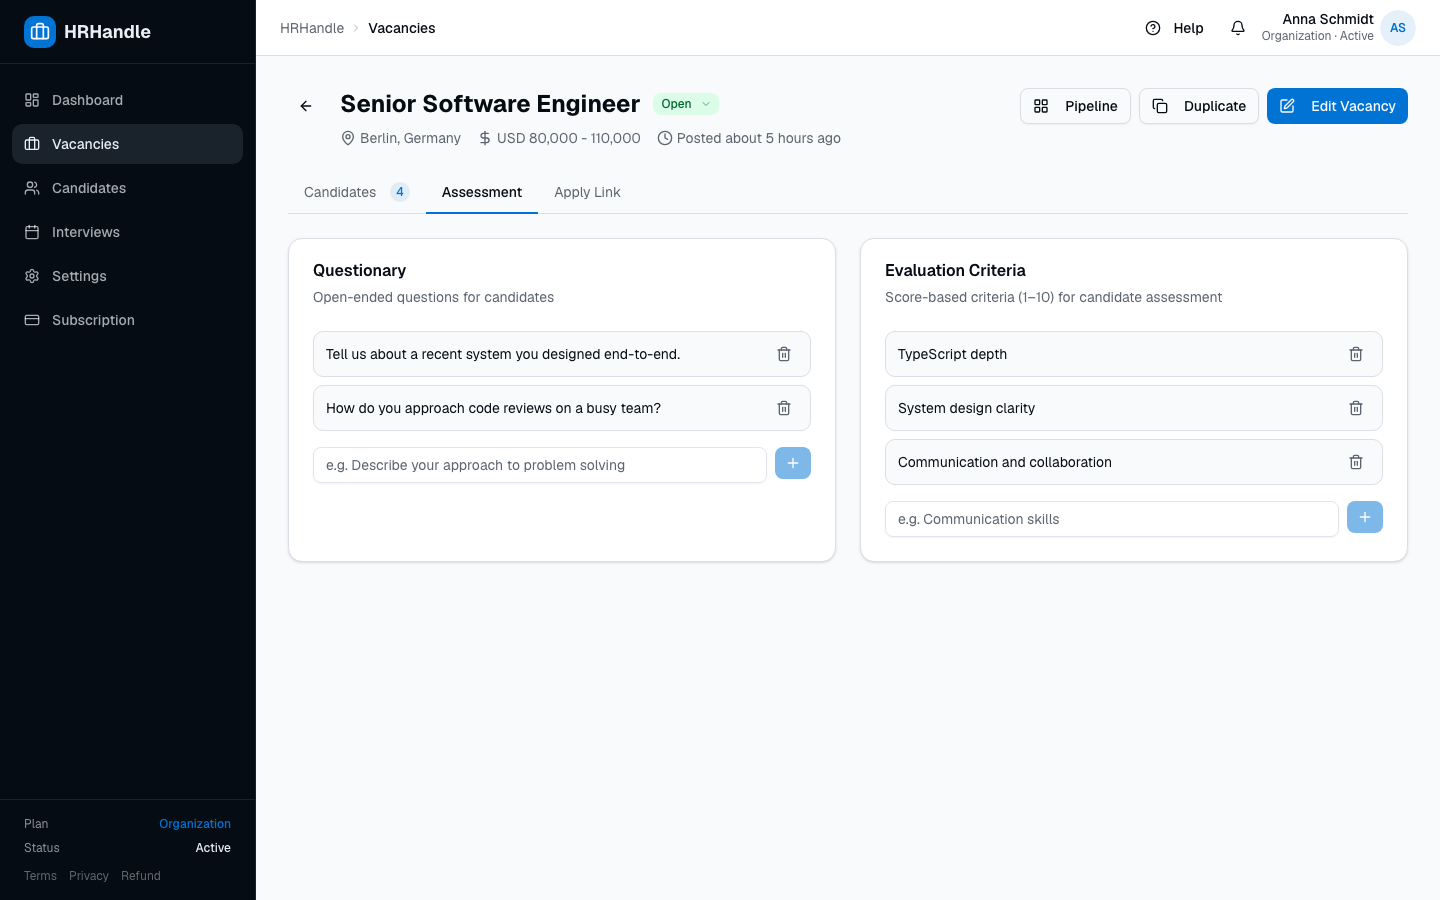
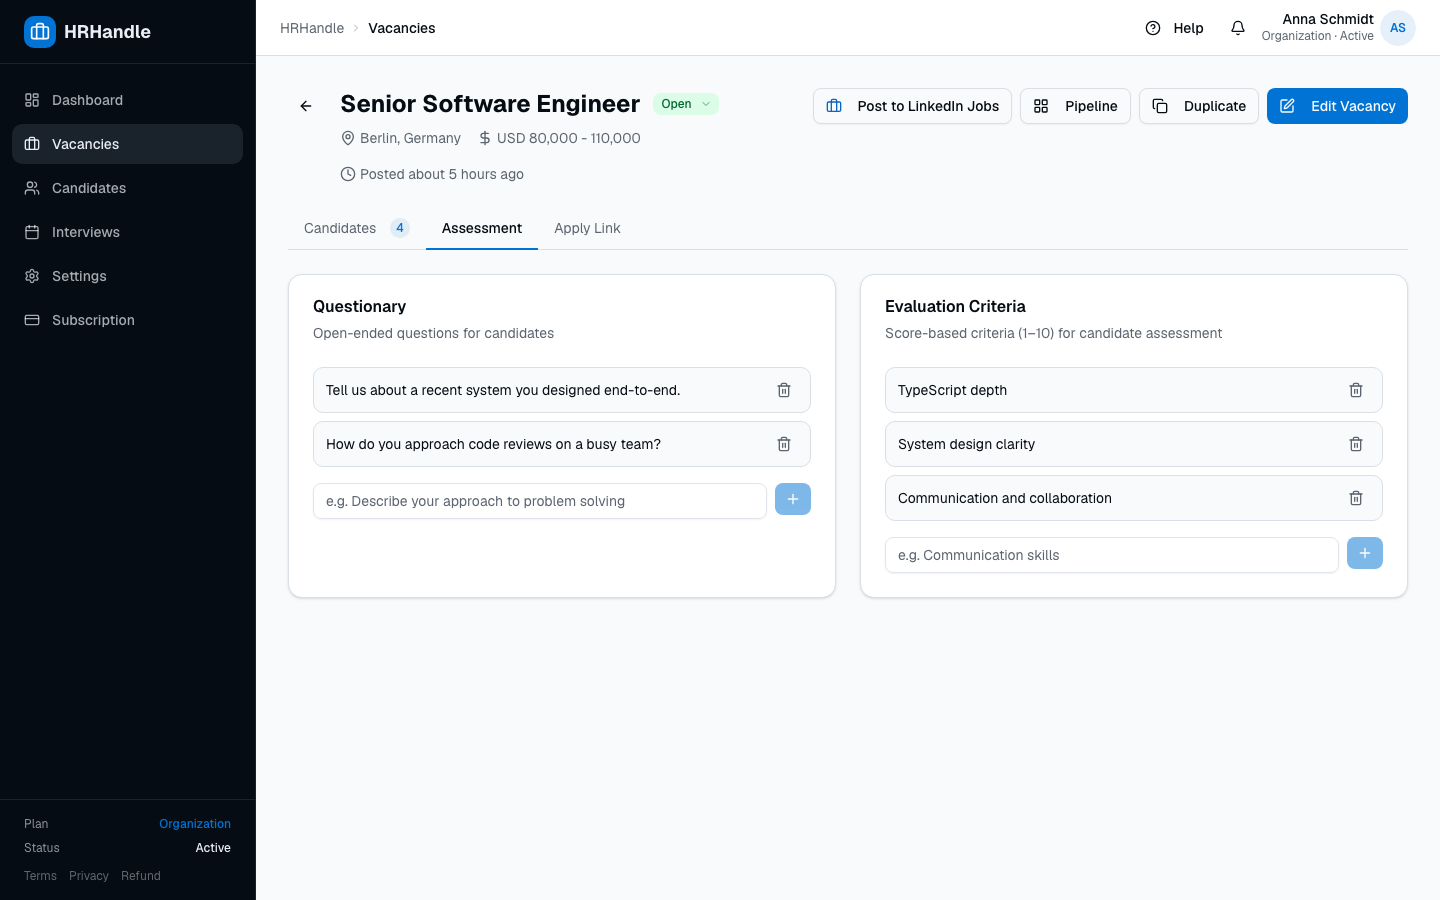
Add linkedin-integration guide with three screenshots
- Seed: add a demo LinkedIn integration (page ID 12345678, manual
  access token) to organization_integrations for Acme so the
  Connected state and Post to LinkedIn Jobs button render in shots.
- Screenshots:
  - Integrations settings page showing the LinkedIn row marked
    Connected with Page ID 12345678
  - Vacancy detail page with the Post to LinkedIn Jobs button
    annotated alongside Pipeline / Duplicate / Edit Vacancy
  - The clipboard companion modal with editable title and description,
    apply URL with copy button, and the 3-step Manage applicants guide
- Guide covers connecting via page ID, the modal flow, why LinkedIn's
  free flow needs copy-paste instead of full auto-fill, and disconnect.

diff --git a/scripts/screenshot-config.ts b/scripts/screenshot-config.ts
@@ -107,6 +107,81 @@ export const SHOTS: ShotConfig[] = [
       },
     ],
   },
+  // ---- linkedin-integration ----
+  {
+    name: 'linkedin-integration-settings',
+    url: '/settings/integrations',
+    output: 'public/guide/screenshots/linkedin-integration-settings.png',
+    preActions: async (page) => {
+      await page.waitForLoadState('networkidle')
+      await page.waitForTimeout(500)
+    },
+  },
+  {
+    name: 'linkedin-integration-vacancy-button',
+    url: '/vacancies',
+    output: 'public/guide/screenshots/linkedin-integration-vacancy-button.png',
+    preActions: async (page) => {
+      await page.waitForSelector('table a[href^="/vacancies/"]:not([href="/vacancies/new"])', {
+        timeout: 15_000,
+      })
+      const href = await page.evaluate(() => {
+        const links = Array.from(
+          document.querySelectorAll('table a[href^="/vacancies/"]')
+        ) as HTMLAnchorElement[]
+        const target = links.find((a) => (a.textContent || '').includes('Senior Software Engineer'))
+        return target?.getAttribute('href') ?? null
+      })
+      if (!href) throw new Error('Could not find Senior Software Engineer row')
+      const baseUrl =
+        process.env.SCREENSHOT_BASE_URL ?? 'https://staging.hrhandle.com'
+      await page.goto(`${baseUrl}${href}`, { waitUntil: 'networkidle' })
+      await page.waitForTimeout(500)
+      // Tag the Post to LinkedIn Jobs button so we can annotate it.
+      await page.evaluate(() => {
+        const btns = Array.from(document.querySelectorAll('button')) as HTMLButtonElement[]
+        const target = btns.find((b) => (b.textContent || '').includes('Post to LinkedIn Jobs'))
+        if (target) target.setAttribute('data-shot', 'linkedin-btn')
+      })
+    },
+    annotations: [
+      {
+        targetSelector: '[data-shot="linkedin-btn"]',
+        label: 'Post to LinkedIn Jobs',
+        position: 'bottom',
+        style: 'arrow',
+      },
+    ],
+  },
+  {
+    name: 'linkedin-integration-modal',
+    url: '/vacancies',
+    output: 'public/guide/screenshots/linkedin-integration-modal.png',
+    preActions: async (page) => {
+      await page.waitForSelector('table a[href^="/vacancies/"]:not([href="/vacancies/new"])', {
+        timeout: 15_000,
+      })
+      const href = await page.evaluate(() => {
+        const links = Array.from(
+          document.querySelectorAll('table a[href^="/vacancies/"]')
+        ) as HTMLAnchorElement[]
+        const target = links.find((a) => (a.textContent || '').includes('Senior Software Engineer'))
+        return target?.getAttribute('href') ?? null
+      })
+      if (!href) throw new Error('Could not find Senior Software Engineer row')
+      const baseUrl =
+        process.env.SCREENSHOT_BASE_URL ?? 'https://staging.hrhandle.com'
+      await page.goto(`${baseUrl}${href}`, { waitUntil: 'networkidle' })
+      await page.waitForTimeout(500)
+      // Click the Post to LinkedIn Jobs button to open the modal.
+      await page
+        .getByRole('button', { name: /Post to LinkedIn Jobs/ })
+        .first()
+        .click()
+      await page.waitForTimeout(600)
+    },
+  },
+
   // ---- candidate-emails ----
   {
     name: 'candidate-emails-application-received',

diff --git a/scripts/seed-demo-org.ts b/scripts/seed-demo-org.ts
@@ -802,6 +802,38 @@ async function ensureRejectionReasons(orgId: string): Promise<void> {
   }
 }
 
+async function ensureLinkedInIntegration(orgId: string, ownerId: string): Promise<void> {
+  // Demo-only fake page ID; LinkedIn never actually receives traffic from this.
+  const DEMO_PAGE_ID = '12345678'
+  const { data: existing } = await admin
+    .from('organization_integrations')
+    .select('id')
+    .eq('organization_id', orgId)
+    .eq('platform', 'linkedin')
+    .maybeSingle()
+
+  const payload = {
+    organization_id: orgId,
+    platform: 'linkedin' as const,
+    external_page_id: DEMO_PAGE_ID,
+    external_page_name: DEMO_PAGE_ID,
+    access_token: 'manual',
+    token_expires_at: null,
+    connected_by: ownerId,
+    connected_at: new Date().toISOString(),
+    is_active: true,
+  }
+
+  if (existing) {
+    await admin.from('organization_integrations').update(payload).eq('id', existing.id)
+    console.log('  LinkedIn integration updated')
+  } else {
+    const { error } = await admin.from('organization_integrations').insert(payload)
+    if (error) console.log(`  LinkedIn integration insert failed: ${error.message}`)
+    else console.log('  LinkedIn integration created')
+  }
+}
+
 async function main(): Promise<void> {
   console.log(`Seeding demo org on ${SUPABASE_URL}\n`)
 
@@ -840,6 +872,9 @@ async function main(): Promise<void> {
 
   console.log('\nRejection reasons + templates:')
   await ensureRejectionReasons(orgId)
+
+  console.log('\nLinkedIn integration (demo):')
+  await ensureLinkedInIntegration(orgId, ownerId)
 
   console.log('\n--- DONE ---')
   console.log('Owner login:', OWNER_EMAIL)
